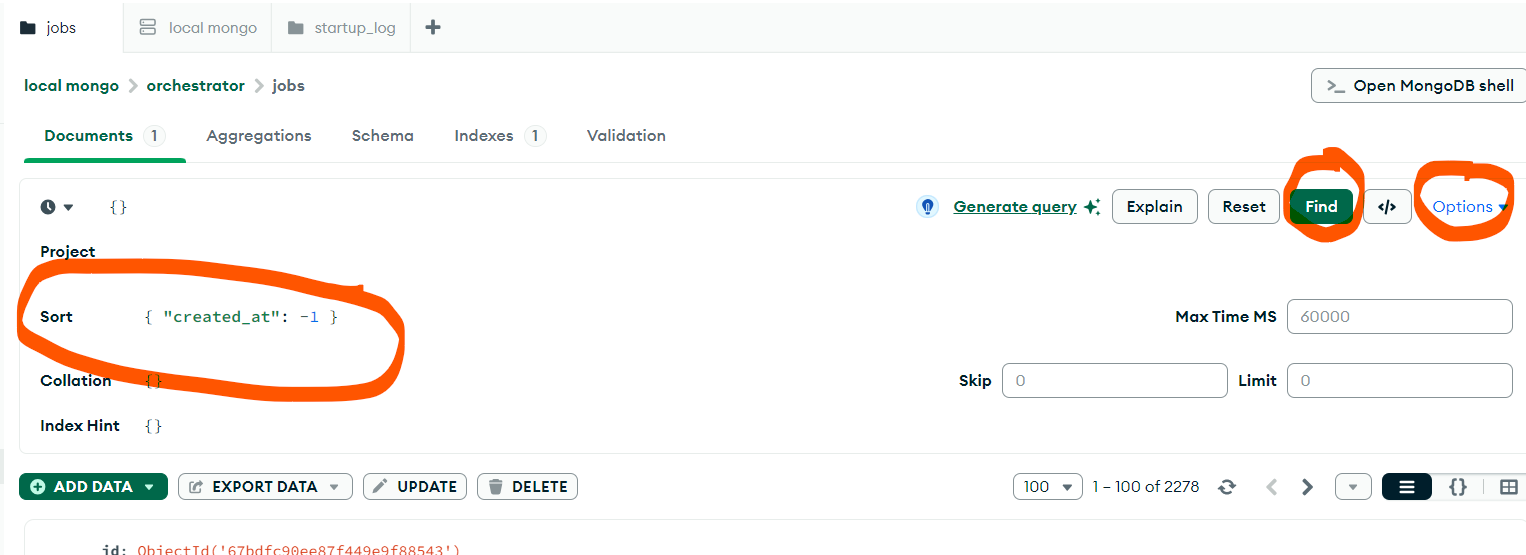
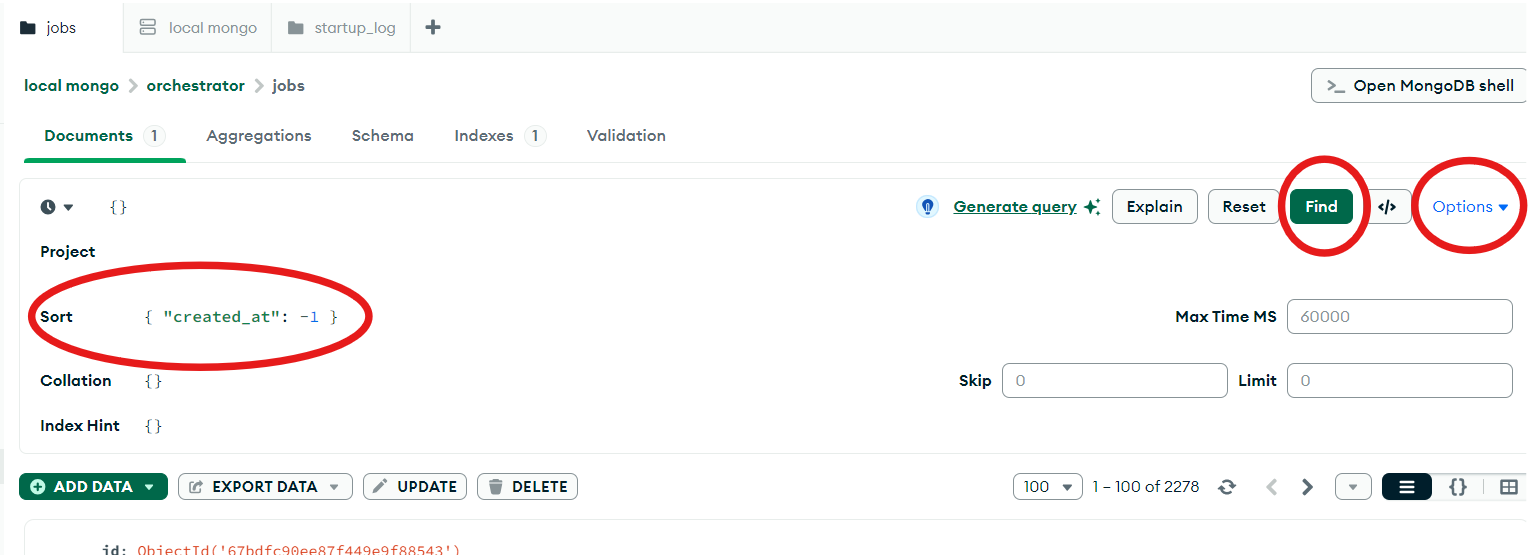
Wording fixes, replace image

diff --git a/docs/quickstart/use_appchain.md b/docs/quickstart/use_appchain.md
@@ -6,30 +6,30 @@ sidebar_position: 5
 
 ## Overview
 
-This quick-start guide helps you query your local Appchain. Please make sure you are [running a local Appchain](/quickstart/run_appchain) before continuing.
+This quick-start guide helps you monitor your local Appchain. Please make sure you are [running a local Appchain](/quickstart/run_appchain) before continuing.
 
 Starting an Appchain launches multiple services. A few notable ones are:
-- MongoDB
+- Orchestrator
 - Blockchain
-- Core contract
+- Performance monitoring
 
 We will demonstrate how you can query these services to see the status of your Appchain. Note that it may take a few minutes for the Appchain to start gathering data to display.
 
-## MongoDb
+## Orchestrator
 
-MongoDB is a database used by many of the Appchain's supporting components, such as the orchestrator.
+The orchestrator utilizes MongoDB database for storing job information.
 
 You can monitor your Appchain by connecting to the database and querying its tables. For this, you should download [MongoDB Compass](https://www.mongodb.com/try/download/compass). Install Compass and connect it to the default address, which should be `mongodb://localhost:27017`.
 
 The database displays four tables. Currently, we're most interested in the orchestrator job entries.
 
-### Query orchestrator
+### Query jobs
 
-The orchestrator is running various jobs all the time. We can query its logs to see the latest performed jobs:
-1. Go to the `orchestrator` database and its `jobs` table
-1. Under the `Documents` tab there is a query row. Go all the way right to click on `Options`
-1. Enter `Sort`: `{ "created_at": -1 }`
-1. Hit `Find`
+The orchestrator is running various jobs all the time. We can query its logs to see, for example, the latest performed jobs:
+1. Go to the `orchestrator` database and its `jobs` table.
+1. Under the `Documents` tab there is a query row. Go all the way right to click on `Options`.
+1. Enter `Sort`: `{ "created_at": -1 }`.
+1. Hit `Find`.
 
 ![Latest job](/img/pages/mongodb-latest-job.png "Latest job")
 
@@ -39,7 +39,8 @@ Another source of data for our Appchain is the blockchain itself. You can query 
 
 ### Current block number
 
-To get the blockchain's latest block number, use:
+The Appchain's sequencer should be listening at address `http://localhost:9945`. We can use Starknet's `starknet_blockNumber` function to retrieve the latest block number:
+
 ```bash
 curl -X POST http://localhost:9945/ -H "Content-Type: application/json" --data '{
   "jsonrpc": "2.0",
@@ -51,10 +52,15 @@ curl -X POST http://localhost:9945/ -H "Content-Type: application/json" --data '
 
 ### Latest settled block number
 
-In an Appchain, all transactions are eventually settled on some base layer. You can query the latest settled block number with:
-```bash
-cast call 0xe7f1725E7734CE288F8367e1Bb143E90bb3F0512 "stateBlockNumber()" --rpc-url http://127.0.0.1:8545
+In an Appchain, all transactions are eventually settled on some base layer. 
 
+Notes on the parameters:
+- The settlement layer's node should be listening at address `http://127.0.0.1:8545`.
+- The verifier contract should be deployed at `0xe7f1725E7734CE288F8367e1Bb143E90bb3F0512`.
+- The target function is called `stateBlockNumber()`. It first has to be converted into its shortened hash value, which gives us `0x35befa5d`.
+
+The entire call becomes:
+```bash
 curl -X POST http://127.0.0.1:8545 -H "Content-Type: application/json" -d '{
   "jsonrpc": "2.0",
   "method": "eth_call",
@@ -68,6 +74,6 @@ curl -X POST http://127.0.0.1:8545 -H "Content-Type: application/json" -d '{
 
 ## Grafana
 
-The Appchain utilizes [Grafana](https://grafana.com/) for log and metrics aggregation. We will later add a detailed guide on how to set up Grafana for your Appchain. Meanwhile, here are some examples what you can do.
+The Appchain utilizes [Grafana](https://grafana.com/) for log and metrics aggregation. We will later add a detailed guide on how to set up Grafana for your Appchain. Meanwhile, here are some examples on what you can monitor.
 
 TODO: add screenshots with small explanations.
